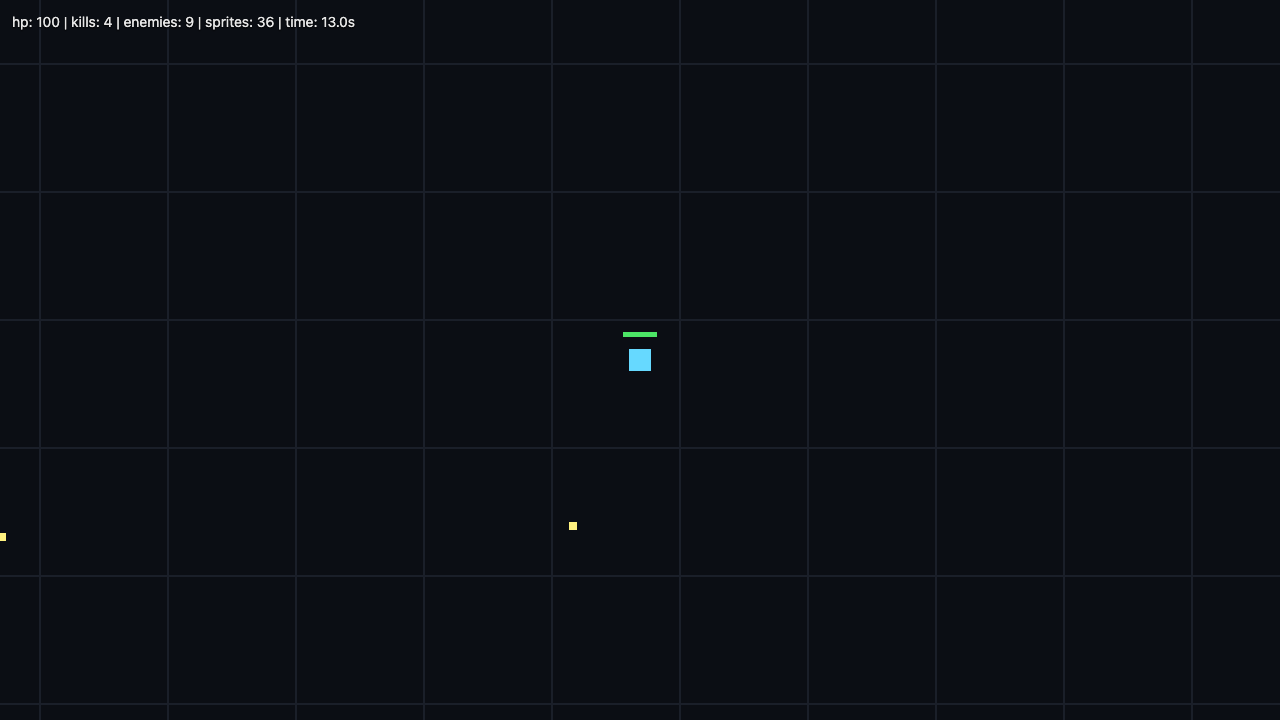
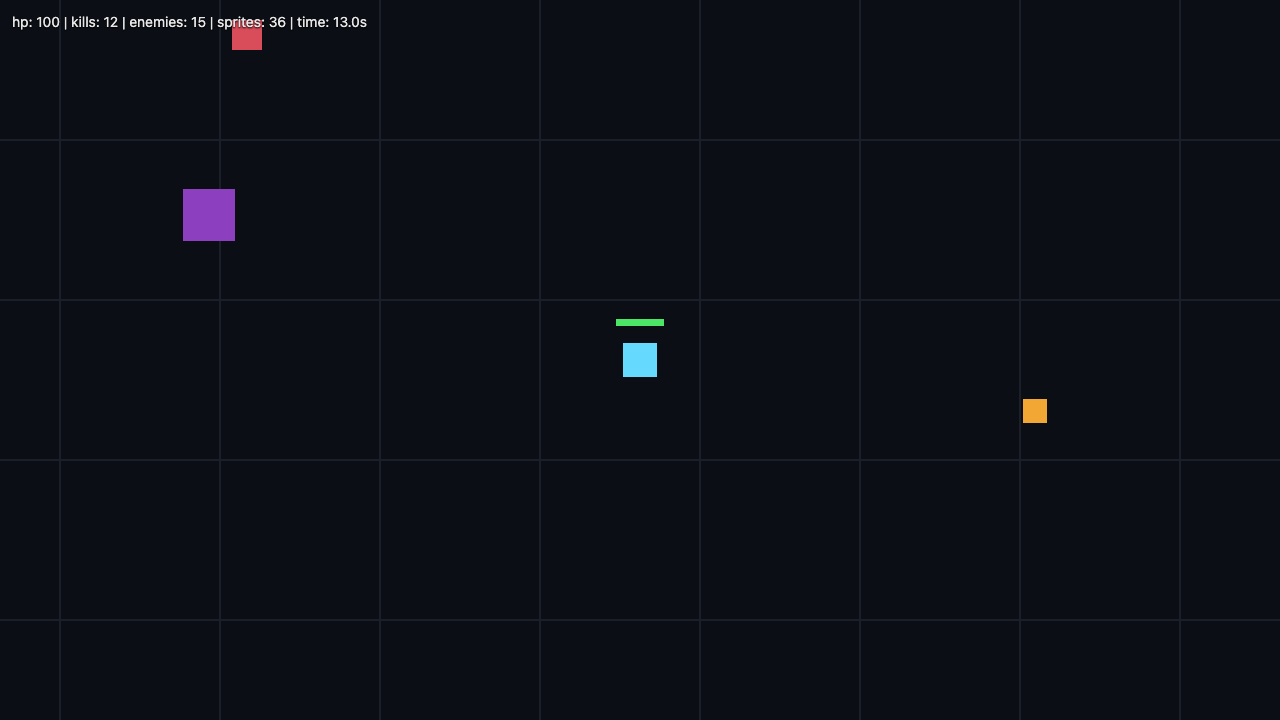
Speed up gameplay and scale up sprites: faster player/enemies/projectiles, quicker spawns, bigger everything

diff --git a/src/main.ts b/src/main.ts
@@ -32,14 +32,18 @@ function showMenu() {
 }
 
 function startGame() {
-  world = new World(enemyDefs as EnemyDef[], weaponDefs[0] as WeaponDef, TEST_LEVEL);
+  world = new World(
+    enemyDefs as EnemyDef[],
+    weaponDefs[0] as WeaponDef,
+    TEST_LEVEL
+  );
   state = "playing";
   menu.hide();
 }
 
 showMenu();
 
-const GRID_SPACING = 128;
+const GRID_SPACING = 160;
 
 startLoop(
   (dt) => {
@@ -62,16 +66,34 @@ startLoop(
     if (world) {
       drawArena(world.config.arenaHalfSize);
 
-      renderer.push({ x: world.playerX, y: world.playerY, w: 22, h: 22, r: 0.4, g: 0.85, b: 1, a: 1 });
+      renderer.push({
+        x: world.playerX,
+        y: world.playerY,
+        w: 34,
+        h: 34,
+        r: 0.4,
+        g: 0.85,
+        b: 1,
+        a: 1,
+      });
 
-      const barW = 34;
+      const barW = 48;
       const hpFrac = Math.max(0, world.hp / world.config.playerMaxHp);
-      renderer.push({ x: world.playerX, y: world.playerY - 26, w: barW, h: 5, r: 0.2, g: 0.2, b: 0.25, a: 0.9 });
+      renderer.push({
+        x: world.playerX,
+        y: world.playerY - 38,
+        w: barW,
+        h: 7,
+        r: 0.2,
+        g: 0.2,
+        b: 0.25,
+        a: 0.9,
+      });
       renderer.push({
         x: world.playerX - (barW * (1 - hpFrac)) / 2,
-        y: world.playerY - 26,
+        y: world.playerY - 38,
         w: barW * hpFrac,
-        h: 5,
+        h: 7,
         r: 0.3,
         g: 0.9,
         b: 0.4,
@@ -80,18 +102,36 @@ startLoop(
 
       for (const e of world.enemies) {
         const [r, g, b] = e.def.color;
-        renderer.push({ x: e.x, y: e.y, w: e.def.size, h: e.def.size, r, g, b, a: 1 });
+        renderer.push({
+          x: e.x,
+          y: e.y,
+          w: e.def.size,
+          h: e.def.size,
+          r,
+          g,
+          b,
+          a: 1,
+        });
       }
 
       for (const p of world.projectiles) {
-        renderer.push({ x: p.x, y: p.y, w: 8, h: 8, r: 1, g: 0.95, b: 0.5, a: 1 });
+        renderer.push({
+          x: p.x,
+          y: p.y,
+          w: 14,
+          h: 14,
+          r: 1,
+          g: 0.95,
+          b: 0.5,
+          a: 1,
+        });
       }
 
       hud.textContent = `hp: ${Math.ceil(world.hp)} | kills: ${world.kills} | enemies: ${world.enemies.length} | sprites: ${renderer.spriteCount} | time: ${world.time.toFixed(1)}s`;
     }
 
     renderer.flush();
-  },
+  }
 );
 
 function drawGrid(camX: number, camY: number) {
@@ -101,10 +141,28 @@ function drawGrid(camX: number, camY: number) {
   const y0 = Math.floor((camY - halfH) / GRID_SPACING) * GRID_SPACING;
 
   for (let x = x0; x <= camX + halfW; x += GRID_SPACING) {
-    renderer.push({ x, y: camY, w: 2, h: halfH * 2 + GRID_SPACING, r: 0.1, g: 0.12, b: 0.16, a: 1 });
+    renderer.push({
+      x,
+      y: camY,
+      w: 2,
+      h: halfH * 2 + GRID_SPACING,
+      r: 0.1,
+      g: 0.12,
+      b: 0.16,
+      a: 1,
+    });
   }
   for (let y = y0; y <= camY + halfH; y += GRID_SPACING) {
-    renderer.push({ x: camX, y, w: halfW * 2 + GRID_SPACING, h: 2, r: 0.1, g: 0.12, b: 0.16, a: 1 });
+    renderer.push({
+      x: camX,
+      y,
+      w: halfW * 2 + GRID_SPACING,
+      h: 2,
+      r: 0.1,
+      g: 0.12,
+      b: 0.16,
+      a: 1,
+    });
   }
 }
 

diff --git a/src/game/world.ts b/src/game/world.ts
@@ -30,12 +30,12 @@ export interface LevelConfig {
 export const TEST_LEVEL: LevelConfig = {
   arenaHalfSize: 2000,
   playerMaxHp: 100,
-  playerSpeed: 240,
+  playerSpeed: 360,
   contactDps: 12,
-  spawnIntervalStart: 1.1,
-  spawnIntervalMin: 0.12,
-  spawnDecay: 0.985,
-  weaponRange: 650,
+  spawnIntervalStart: 0.7,
+  spawnIntervalMin: 0.07,
+  spawnDecay: 0.97,
+  weaponRange: 800,
 };
 
 export class World {
@@ -54,7 +54,7 @@ export class World {
   constructor(
     private enemyDefs: EnemyDef[],
     private weapon: WeaponDef,
-    readonly config: LevelConfig,
+    readonly config: LevelConfig
   ) {
     this.hp = config.playerMaxHp;
     this.spawnInterval = config.spawnIntervalStart;
@@ -70,13 +70,24 @@ export class World {
 
     const len = Math.hypot(moveX, moveY) || 1;
     const bound = this.config.arenaHalfSize;
-    this.playerX = clamp(this.playerX + (moveX / len) * this.config.playerSpeed * dt, -bound, bound);
-    this.playerY = clamp(this.playerY + (moveY / len) * this.config.playerSpeed * dt, -bound, bound);
+    this.playerX = clamp(
+      this.playerX + (moveX / len) * this.config.playerSpeed * dt,
+      -bound,
+      bound
+    );
+    this.playerY = clamp(
+      this.playerY + (moveY / len) * this.config.playerSpeed * dt,
+      -bound,
+      bound
+    );
 
     this.spawnTimer -= dt;
     if (this.spawnTimer <= 0) {
       this.spawnTimer = this.spawnInterval;
-      this.spawnInterval = Math.max(this.config.spawnIntervalMin, this.spawnInterval * this.config.spawnDecay);
+      this.spawnInterval = Math.max(
+        this.config.spawnIntervalMin,
+        this.spawnInterval * this.config.spawnDecay
+      );
       this.spawnEnemy();
     }
 
@@ -87,7 +98,7 @@ export class World {
       e.x += (dx / d) * e.def.speed * dt;
       e.y += (dy / d) * e.def.speed * dt;
 
-      const touch = (e.def.size + 22) / 2;
+      const touch = (e.def.size + 34) / 2;
       if (d < touch) this.hp -= this.config.contactDps * dt;
     }
 
@@ -148,7 +159,8 @@ export class World {
   }
 
   private spawnEnemy() {
-    const def = this.enemyDefs[Math.floor(Math.random() * this.enemyDefs.length)];
+    const def =
+      this.enemyDefs[Math.floor(Math.random() * this.enemyDefs.length)];
     const angle = Math.random() * Math.PI * 2;
     const radius = 750 + Math.random() * 200;
     this.enemies.push({
